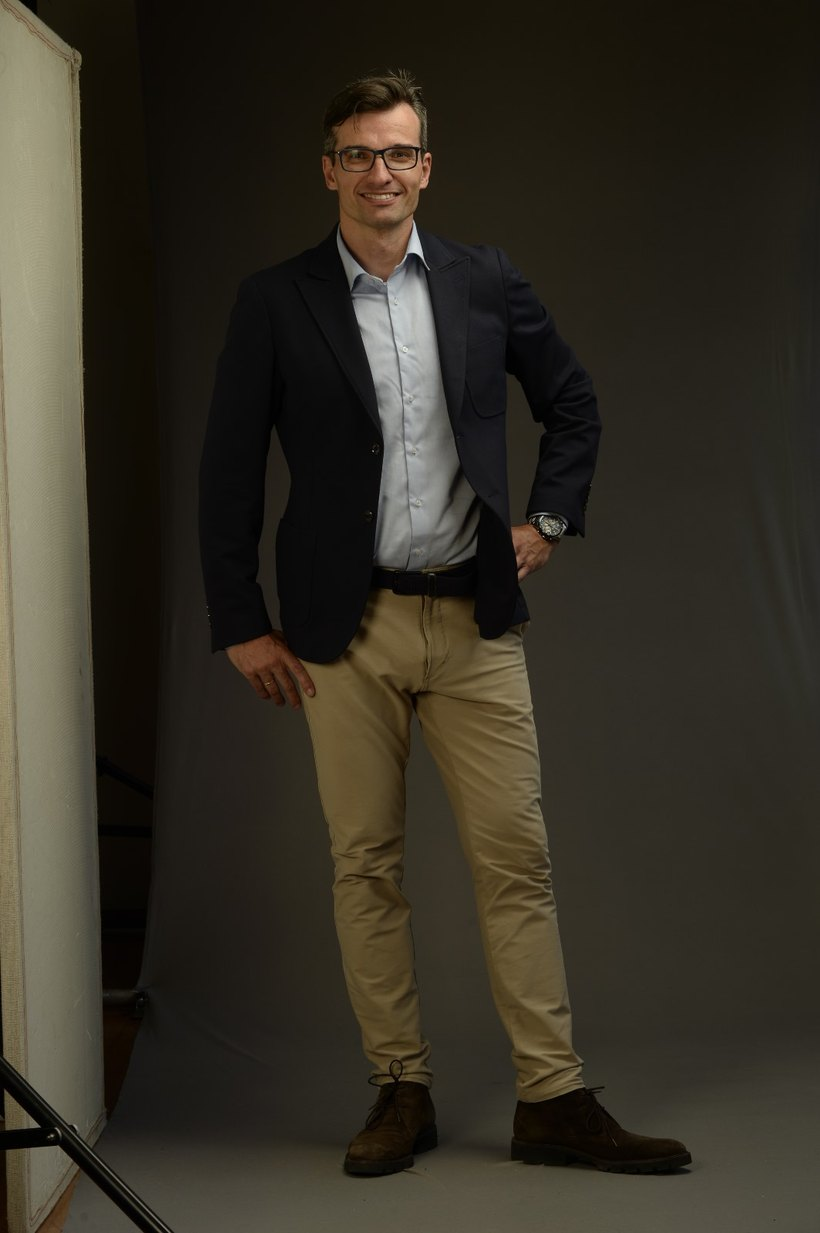
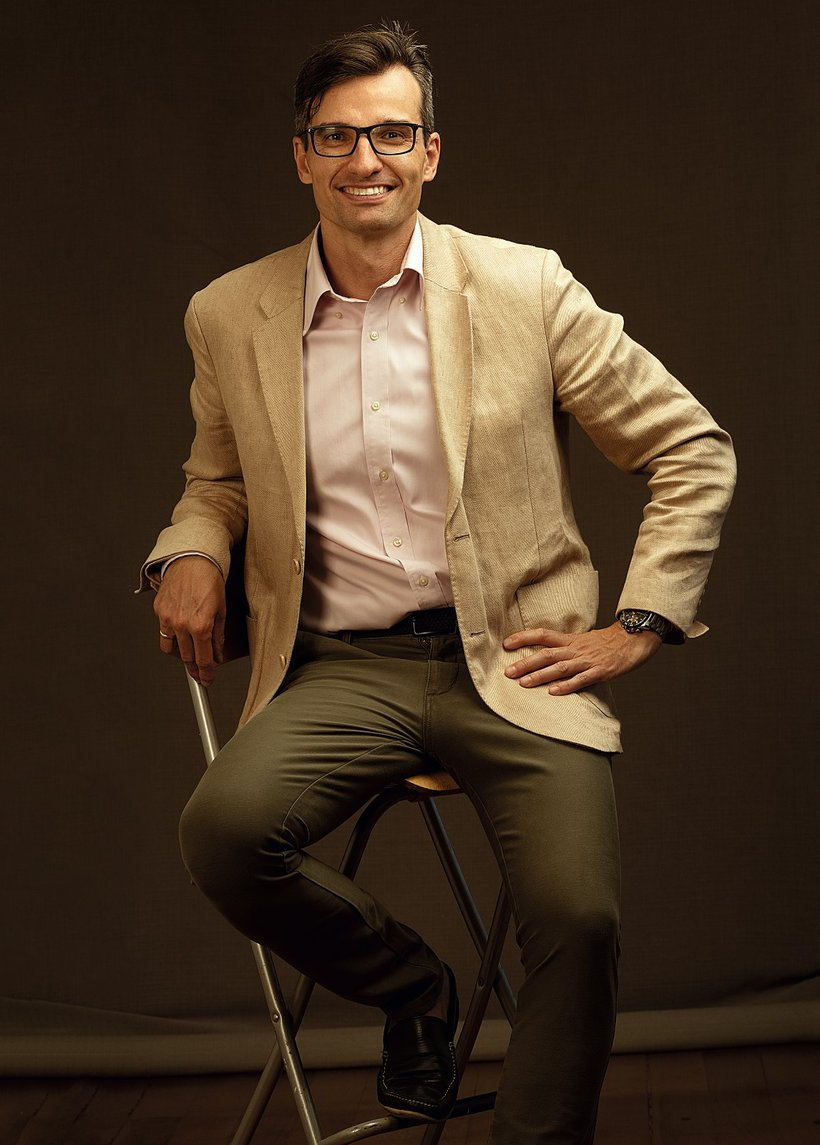
Actualizar foto del preparador y añadir foto pequeña en "Donde trabajo"
- Nueva foto de estudio (sentado) como foto principal del preparador
- Foto frente a la oficina del Ministerio de Trabajo en el bloque de la sección
  Toledo "Donde trabajo cada día"

https://claude.ai/code/session_01He8yuAZo2rF8yeGuXWgKJN

diff --git a/src/index.css b/src/index.css
@@ -947,9 +947,27 @@ table.convocatorias tbody tr:hover {
   box-shadow: var(--sombra-sm);
 }
 
+.toledo__lugar-foto {
+  float: right;
+  width: 190px;
+  max-width: 42%;
+  border-radius: var(--radio-sm);
+  margin: 0 0 10px 16px;
+  box-shadow: var(--sombra-sm);
+}
+
 .toledo__lugar h3 {
   font-size: 1.1rem;
   margin-bottom: 8px;
+}
+
+@media (max-width: 520px) {
+  .toledo__lugar-foto {
+    float: none;
+    width: 100%;
+    max-width: 100%;
+    margin: 0 0 12px;
+  }
 }
 
 .toledo__lugar p {

diff --git a/src/components/Toledo.jsx b/src/components/Toledo.jsx
@@ -1,4 +1,5 @@
 import toledoCiudad from '../assets/toledo-ciudad.jpg'
+import trabajoSepe from '../assets/trabajo-sepe.jpg'
 
 export default function Toledo() {
   return (
@@ -34,6 +35,12 @@ export default function Toledo() {
             </p>
 
             <div className="toledo__lugar">
+              <img
+                className="toledo__lugar-foto"
+                src={trabajoSepe}
+                alt="Jesús Prieto frente a una oficina del Ministerio de Trabajo y Economía Social"
+                loading="lazy"
+              />
               <h3>🏛️ Donde trabajo cada día</h3>
               <p>
                 Ejerzo como Inspector de Trabajo y Seguridad Social en la{' '}